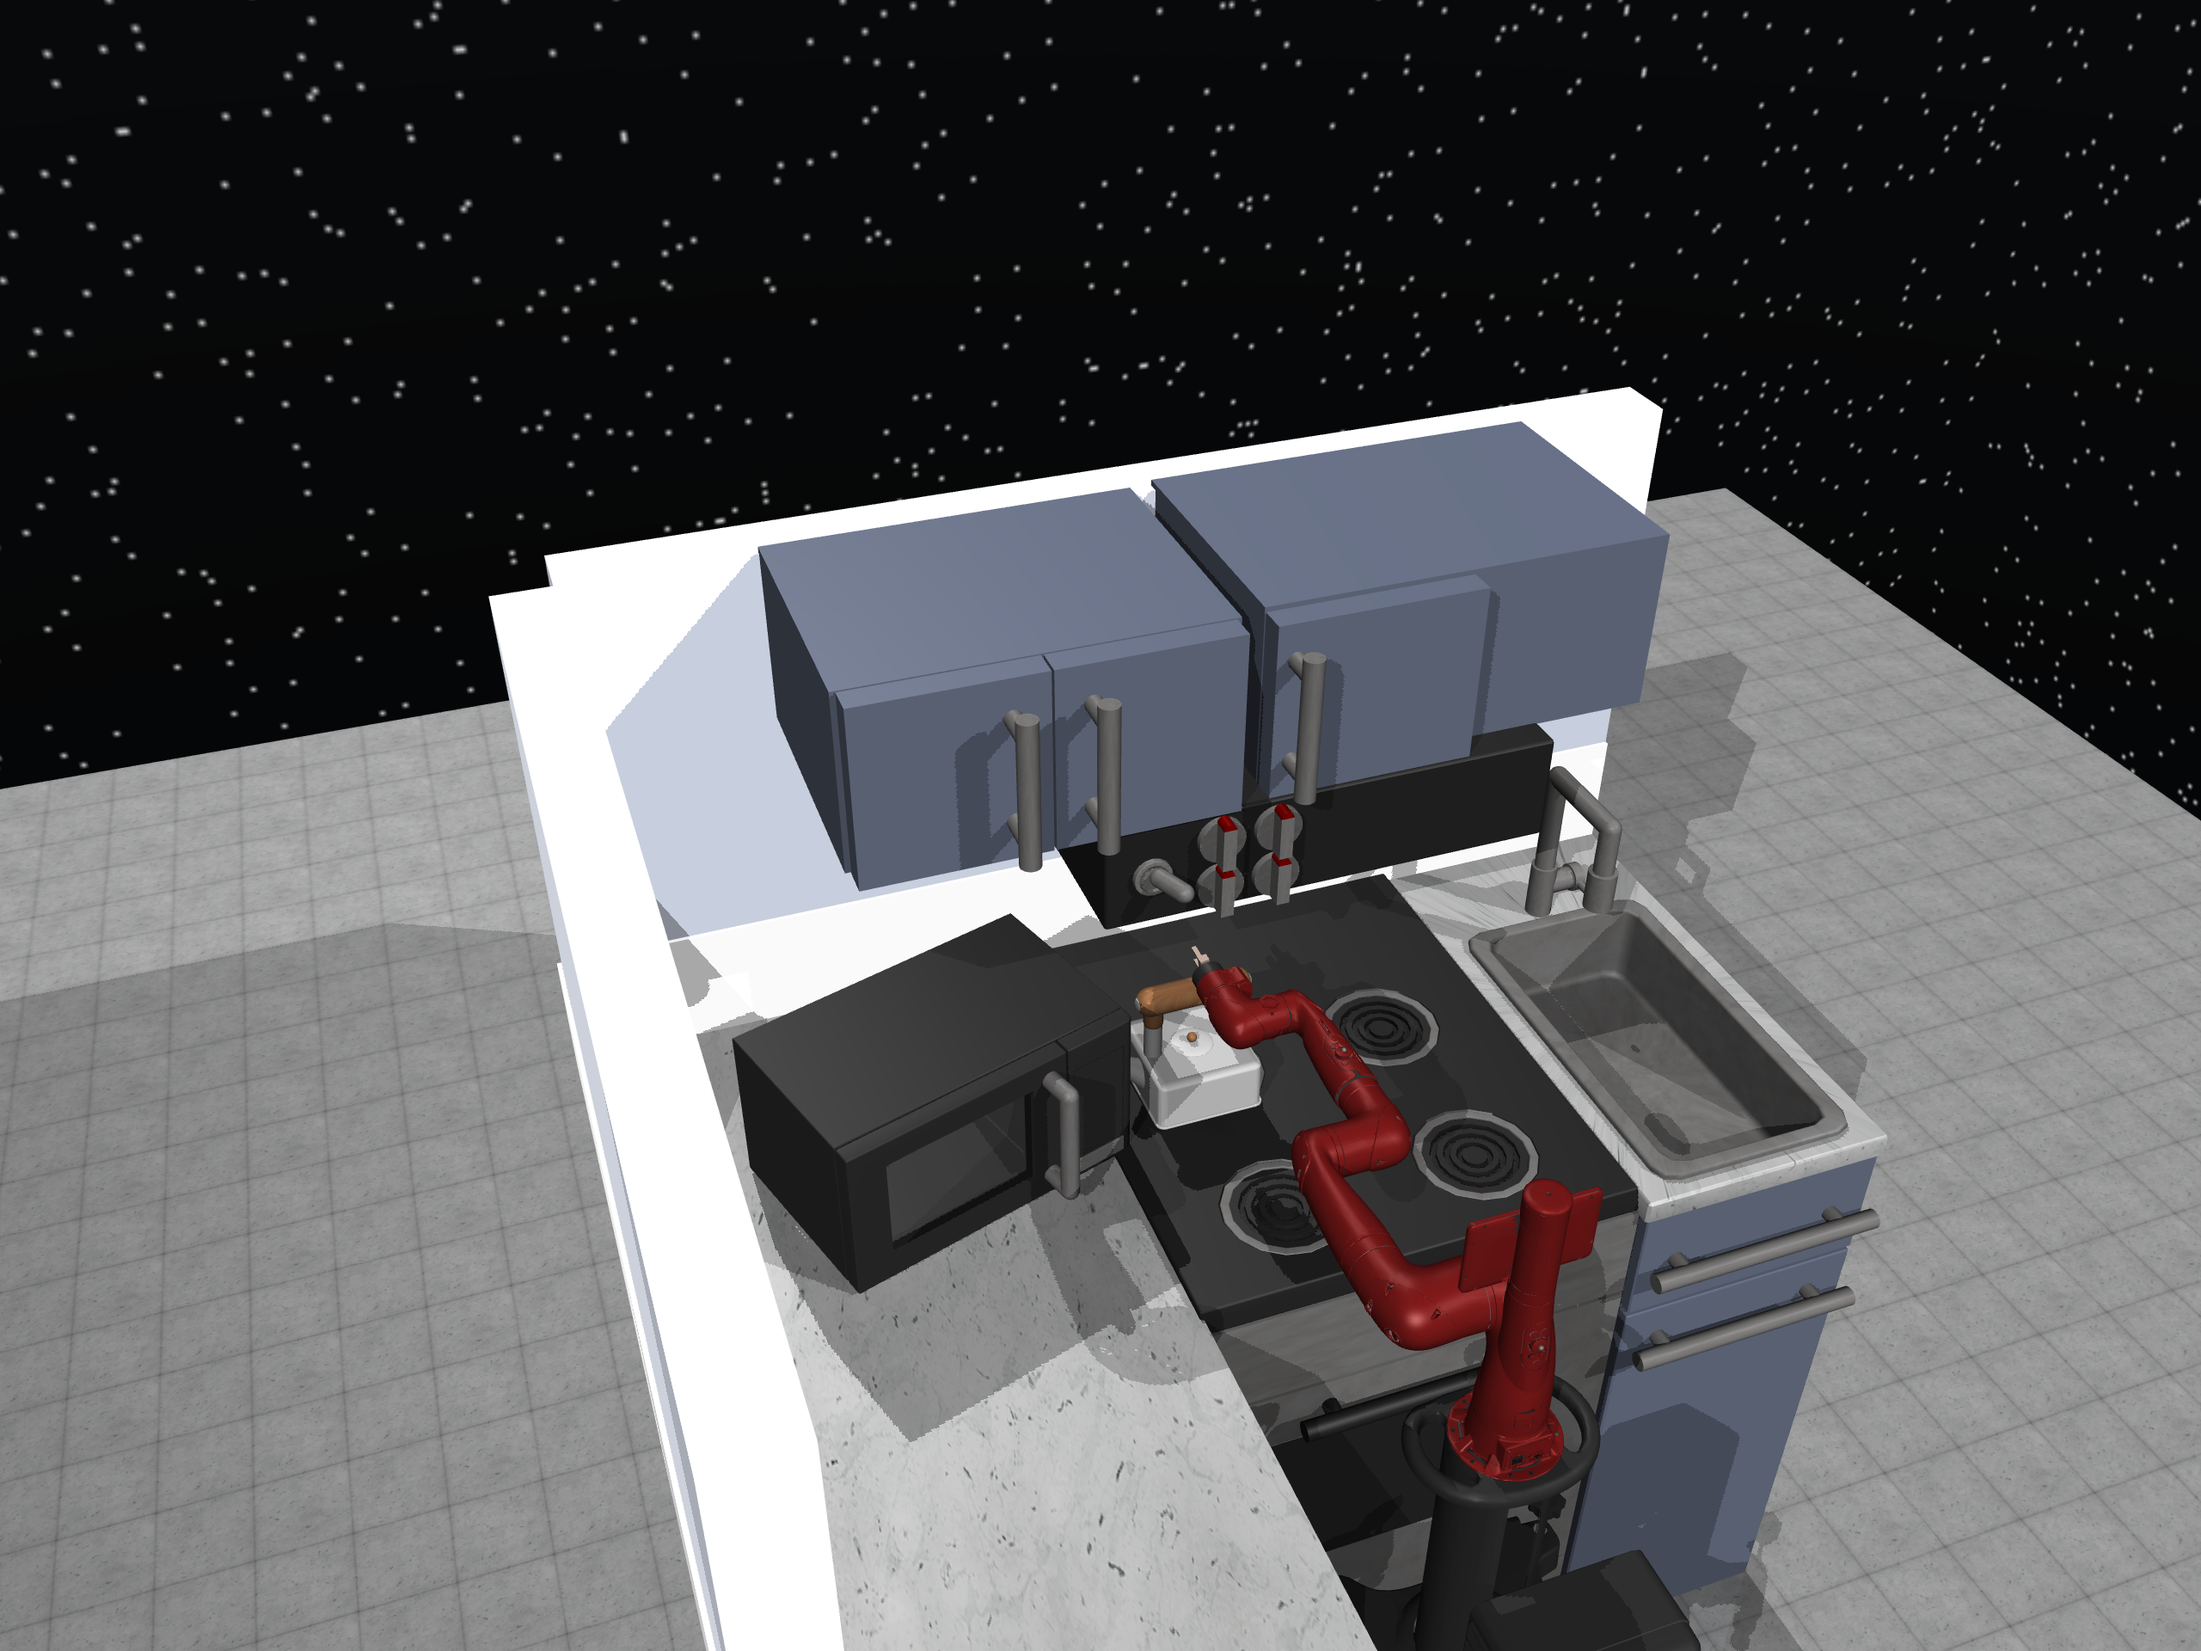
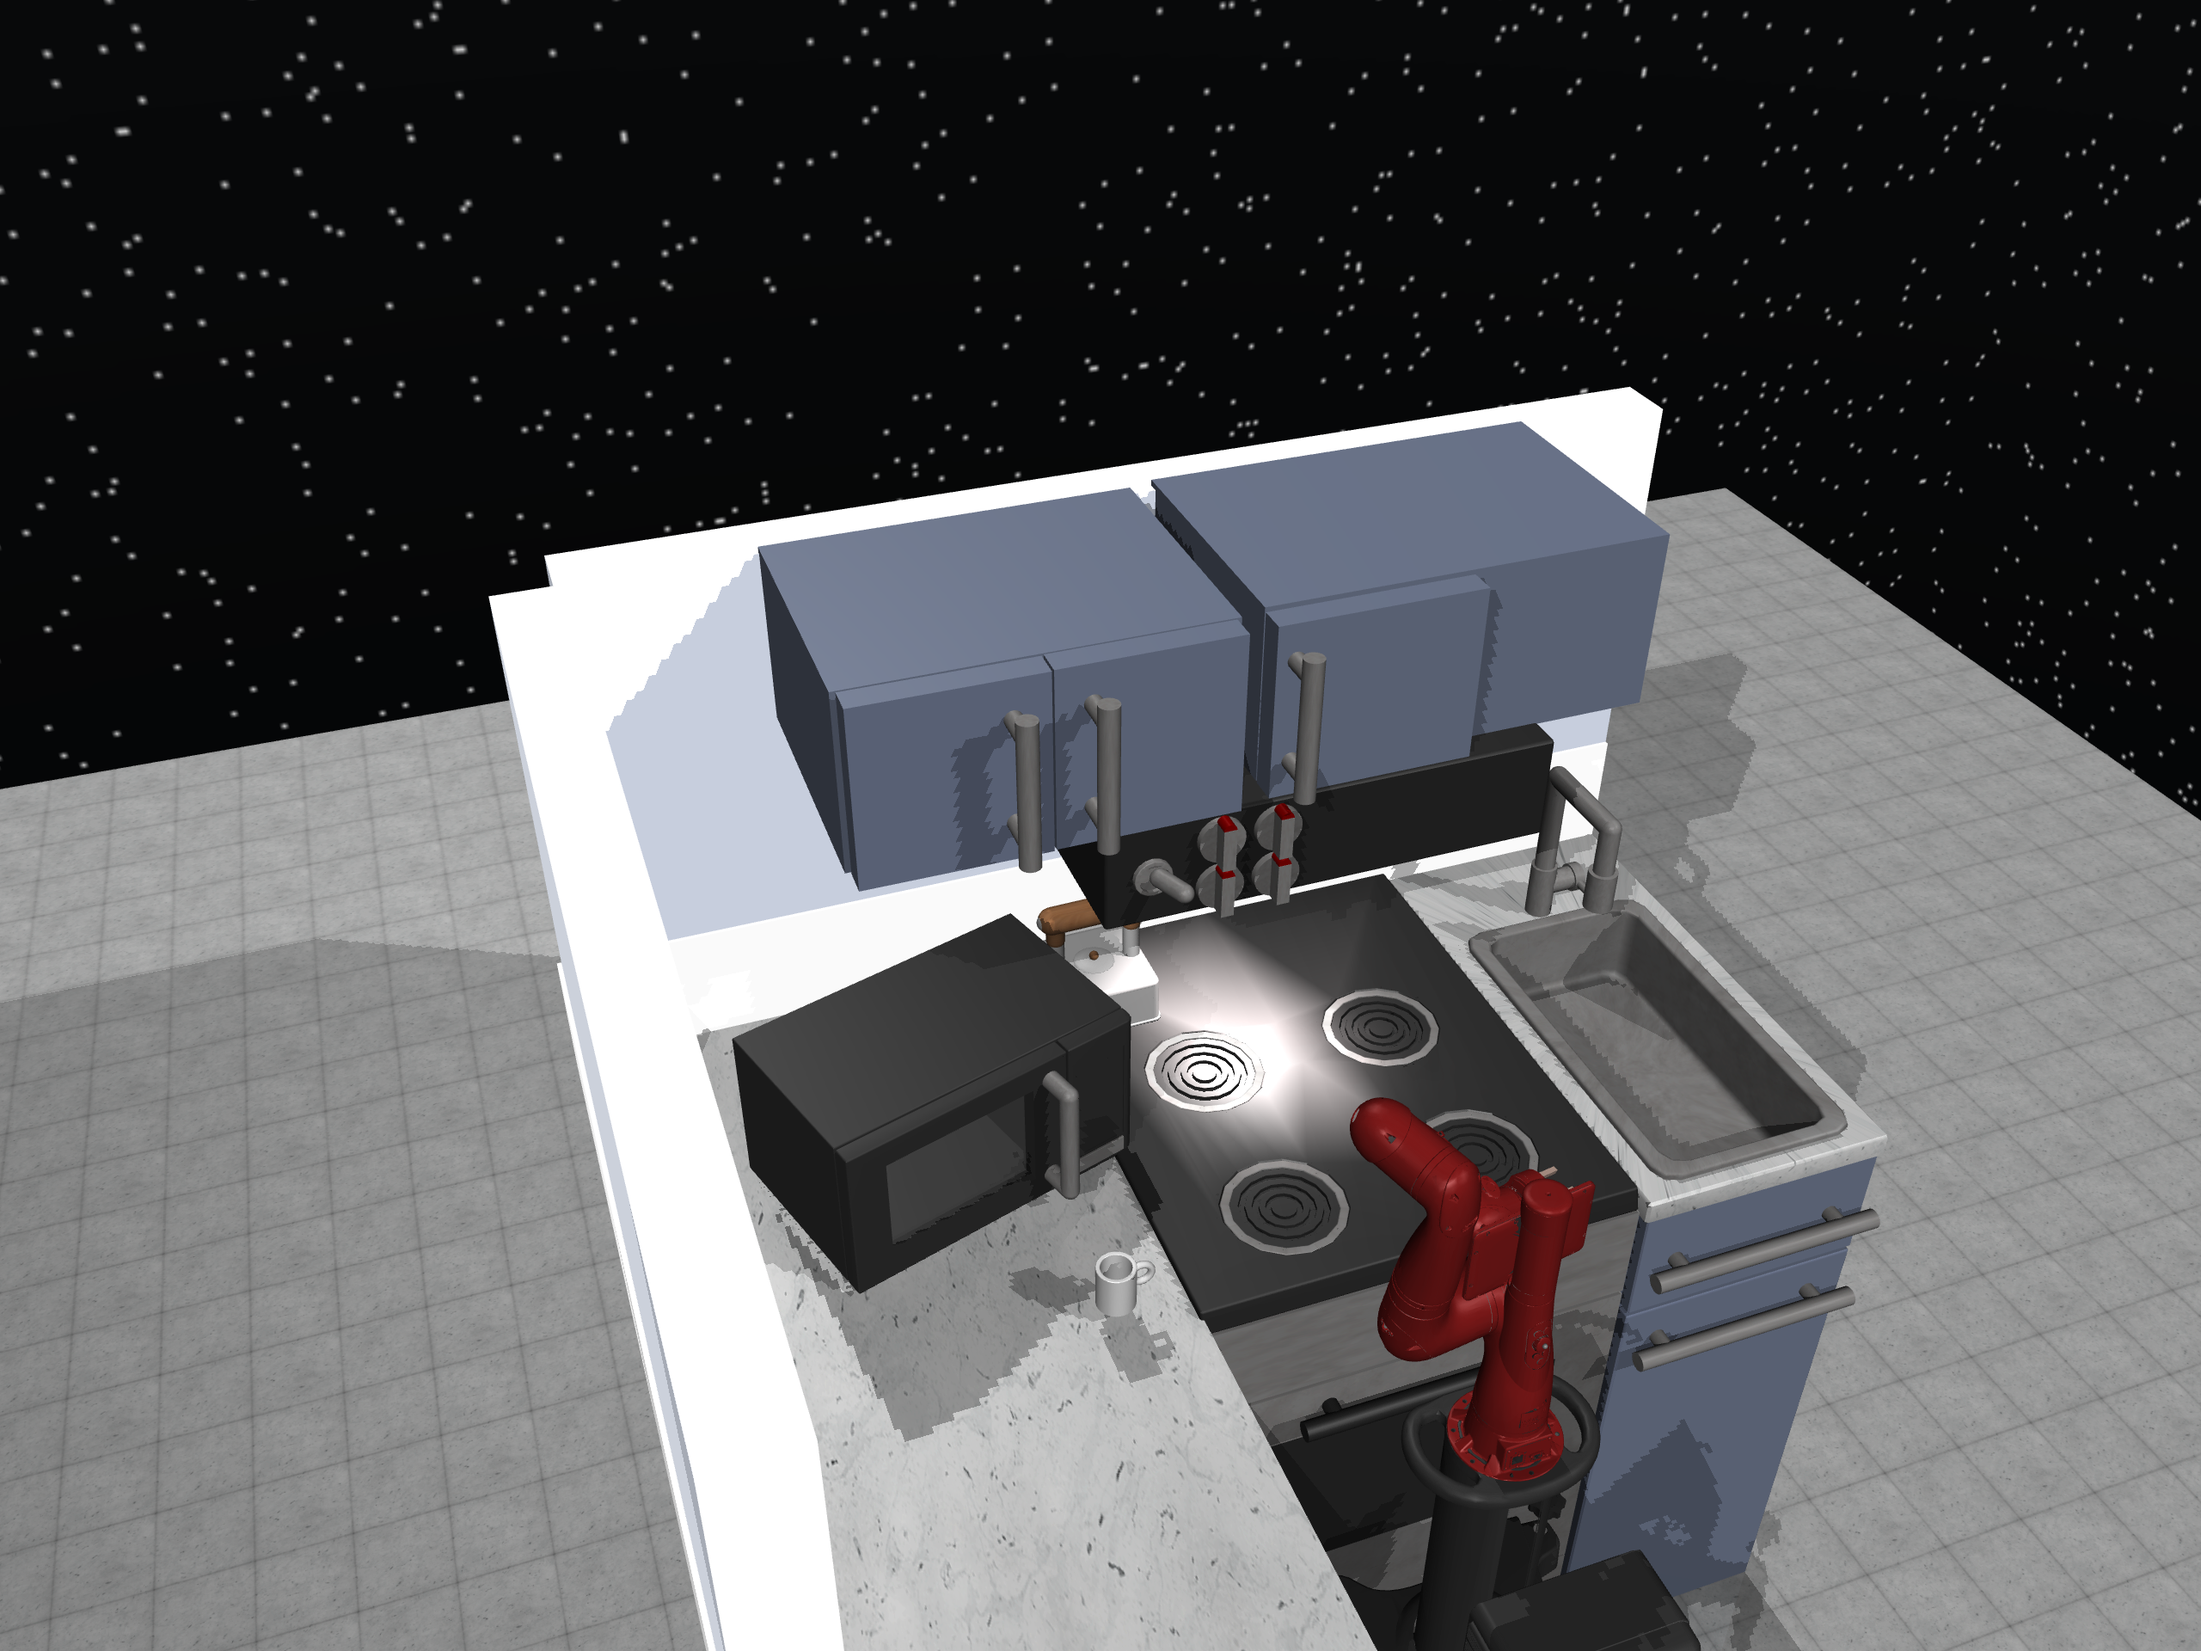
added cup

diff --git a/env.py b/env.py
@@ -23,21 +23,31 @@ from gymnasium.envs.mujoco.mujoco_env import MujocoEnv
 
 """
 === QPOS / QVEL OVERVIEW ===
-joint knob_Joint_1         | HINGE     | qpos[0], qvel[0]
-joint burner_Joint_1       | SLIDE     | qpos[1], qvel[1]
-joint knob_Joint_2         | HINGE     | qpos[2], qvel[2]
-joint burner_Joint_2       | SLIDE     | qpos[3], qvel[3]
-joint knob_Joint_3         | HINGE     | qpos[4], qvel[4]
-joint burner_Joint_3       | SLIDE     | qpos[5], qvel[5]
-joint knob_Joint_4         | HINGE     | qpos[6], qvel[6]
-joint burner_Joint_4       | SLIDE     | qpos[7], qvel[7]
-joint lightswitch_joint    | HINGE     | qpos[8], qvel[8]
-joint light_joint          | SLIDE     | qpos[9], qvel[9]
-joint slidedoor_joint      | SLIDE     | qpos[10], qvel[10]
-joint leftdoorhinge        | HINGE     | qpos[11], qvel[11]
-joint rightdoorhinge       | HINGE     | qpos[12], qvel[12]
-joint microjoint           | HINGE     | qpos[13], qvel[13]
-joint unnamed_joint_14     | FREE      | qpos[14:21] (x,y,z,quat wxyz), qvel[14:20] (lin+ang)
+joint right_j0             | HINGE     | qpos[0], qvel[0]
+joint right_j1             | HINGE     | qpos[1], qvel[1]
+joint right_j2             | HINGE     | qpos[2], qvel[2]
+joint right_j3             | HINGE     | qpos[3], qvel[3]
+joint right_j4             | HINGE     | qpos[4], qvel[4]
+joint right_j5             | HINGE     | qpos[5], qvel[5]
+joint right_j6             | HINGE     | qpos[6], qvel[6]
+joint rc_close             | SLIDE     | qpos[7], qvel[7]
+joint lc_close             | SLIDE     | qpos[8], qvel[8]
+joint knob_Joint_1         | HINGE     | qpos[9], qvel[9]
+joint burner_Joint_1       | SLIDE     | qpos[10], qvel[10]
+joint knob_Joint_2         | HINGE     | qpos[11], qvel[11]
+joint burner_Joint_2       | SLIDE     | qpos[12], qvel[12]
+joint knob_Joint_3         | HINGE     | qpos[13], qvel[13]
+joint burner_Joint_3       | SLIDE     | qpos[14], qvel[14]
+joint knob_Joint_4         | HINGE     | qpos[15], qvel[15]
+joint burner_Joint_4       | SLIDE     | qpos[16], qvel[16]
+joint lightswitch_joint    | HINGE     | qpos[17], qvel[17]
+joint light_joint          | SLIDE     | qpos[18], qvel[18]
+joint slidedoor_joint      | SLIDE     | qpos[19], qvel[19]
+joint leftdoorhinge        | HINGE     | qpos[20], qvel[20]
+joint rightdoorhinge       | HINGE     | qpos[21], qvel[21]
+joint microjoint           | HINGE     | qpos[22], qvel[22]
+joint kettle_freejoint     | FREE      | qpos[23:30] (x,y,z,quat wxyz), qvel[23:29] (lin+ang)
+joint cup_freejoint        | FREE      | qpos[30:37] (x,y,z,quat wxyz), qvel[29:35] (lin+ang)
 === END OVERVIEW ===
 """
 
@@ -50,6 +60,15 @@ DEFAULT_CAMERA_CONFIG = {
     "elevation": -35.0,
     "lookat": np.array([-0.2, 0.5, 2.0]),
 }
+
+INIT_QPOS = np.array([ 1.48388023e-01, -1.76848573e+00,  1.84390296e+00, -2.47685760e+00,
+                            2.60252026e-01,  7.12533105e-01,  1.59515394e+00,  4.79267505e-02,
+                            3.71350919e-02, -2.66279850e-04, -5.18043486e-05,  3.12877220e-05,
+                            -4.51199853e-05, -3.90842156e-06, -4.22629655e-05,  6.28065475e-05,
+                            4.04984708e-05,  4.62730939e-04, -2.26906415e-04, -4.65501369e-04,
+                            -6.44129196e-03, -1.77048263e-03,  1.08009684e-03, -2.69397440e-01,
+                            3.50383255e-01,  1.61944683e+00,  1.00618764e+00,  4.06395120e-03,
+                            -6.62095997e-03, 0, -0.55, -0.55, 1.636, 1.0, 0.0, 0.0, 0.0])
 
 
 class KitchenMinimalEnv(MujocoEnv):
@@ -83,18 +102,12 @@ class KitchenMinimalEnv(MujocoEnv):
         self.init_qvel = self.data.qvel
 
 
-        jid = mj.mj_name2id(self.model, mj.mjtObj.mjOBJ_JOINT, "kettle_freejoint")
-        addr = self.model.jnt_qposadr[jid]
-        # position
-        self.data.qpos[addr:addr+3] = [-0.169, 0.0, 1.626]
-        # quaternion (w,x,y,z) = identity rotation
-        self.data.qpos[addr+3:addr+7] = [1.0, 0.0, 0.0, 0.0]
-        # velocities zero
-        vid = self.model.jnt_dofadr[jid]
-        self.data.qvel[vid:vid+6] = 0.0
-
-
-
+        # initial qpos
+        if INIT_QPOS.shape == self.init_qpos.shape:
+            self.init_qpos = INIT_QPOS
+        else:
+            print(f"Provided INIT_QPOS has wrong shape (expected {self.init_qpos.shape}, got {INIT_QPOS.shape}). Using default.")
+        self.init_qpos = np.zeros(self.nq)
 
         self._render_context = None
         self._width = 1920
@@ -115,16 +128,7 @@ class KitchenMinimalEnv(MujocoEnv):
         if self.model.nv:
             self.data.qvel[:] = np.zeros(self.nv)
 
-        jid = mj.mj_name2id(self.model, mj.mjtObj.mjOBJ_JOINT, "kettle_freejoint")
-        addr = self.model.jnt_qposadr[jid]
-        # position
-        self.data.qpos[addr:addr+3] = [-0.169, 0.0, 1.626]
-        # quaternion (w,x,y,z) = identity rotation
-        self.data.qpos[addr+3:addr+7] = [1.0, 0.0, 0.0, 0.0]
-        # velocities zero
-        vid = self.model.jnt_dofadr[jid]
-        self.data.qvel[vid:vid+6] = 0.0
-
+        self.data.qpos[:] = INIT_QPOS
 
         mj.mj_forward(self.model, self.data)
 
